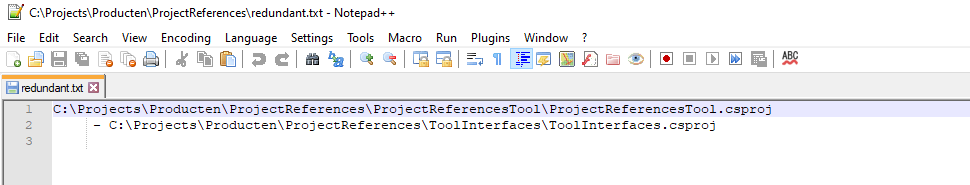
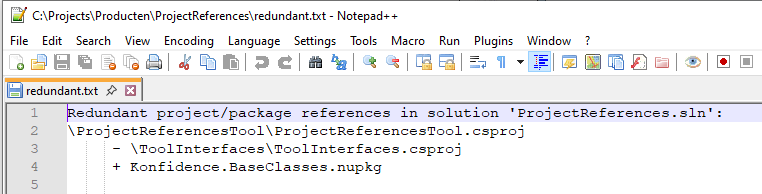
#1273: implement di for project references, step 15

Changed region(s): [[0.0, 0.0, 1.0, 1.0], [0.1509, 0.7297, 0.6037, 0.8919]]

diff --git a/ToolClasses/RedundancyReport.cs b/ToolClasses/RedundancyReport.cs
@@ -1,4 +1,5 @@
 using System.Collections.Generic;
+using System.Diagnostics.CodeAnalysis;
 using System.IO;
 using System.Linq;
 using System.Threading.Tasks;
@@ -31,6 +32,8 @@ public class RedundancyReport
 
             "No redundant project/package references found.".WriteLine();
 
+            RemoveReportFile();
+
             return;
         }
 
@@ -61,6 +64,28 @@ public class RedundancyReport
         {
             await WriteLine(reportFile, $"{Tab} + {redundantPackageReference}{PackageExtension}");
         }
+    }
+
+    [ExcludeFromCodeCoverage]
+    private static void RemoveReportFile()
+    {
+        if (!File.Exists(ReportFileName))
+        {
+            return;
+        }
+
+        try
+        {
+            File.Delete(ReportFileName);
+        }
+        catch (IOException ioException)
+        {
+            $"could not remove '{ReportFileName}' : {ioException.Message}".WriteLine();
+
+            return;
+        }
+
+        $"removed => '{ReportFileName}'".WriteLine();
     }
 
     private static void WriteMissingPackageReferences(int projectsWithoutPackageReferences)

diff --git a/ToolClasses.UnitTest/ProjectReferencesEngineTests.cs b/ToolClasses.UnitTest/ProjectReferencesEngineTests.cs
@@ -386,6 +386,25 @@ public class ProjectReferencesEngineTests
         StringAssert.StartsWith(redundant, "note :");
     }
 
+    [TestMethod]
+    public async Task Execute_WithNothingRedundantAndAReportFileFromAnEarlierRun_RemovesTheReportFile()
+    {
+        // Arrange
+        WriteProject("A", []);
+        WriteProject("B", []);
+        WriteProject("C", []);
+
+        File.WriteAllText(Path.Combine(_outputPath, RedundantFileName), "findings from an earlier run");
+
+        TestContext context = CreateContext("--BasePath", _basePath, "--AllProjects");
+
+        // Act
+        await context.ProjectReferencesEngine.Execute();
+
+        // Assert
+        AssertRedundantFileWasNotWritten();
+    }
+
     private string ReadRedundantFile()
     {
         string redundantFile = Path.Combine(_outputPath, RedundantFileName);

diff --git a/README.md b/README.md
@@ -12,7 +12,8 @@ The project references tool is a console application which scans your .cs projec
 - basic run: in a console go to your solution folder and run 'project-references'. It scans the solution named after that folder, use '--AllProjects' to scan every project below it instead.
 - result 1: console displays the redundant project/package references within the scanned projects, grouped per project. A project reference is marked with a '-' and listed by its .csproj path, a package reference with a '+' and listed by name with a .nupkg extension.
 - result 2: creates a 'redundant.txt' file, which contains the results displayed in the console.
-- restore: packages a project gets through *another package* are read from the restore output, so those are only checked for projects that have been restored. The tool says how many projects it had to skip. Everything else — project references, and packages brought by a referenced project — needs nothing but the source files.
+- result 3: when nothing is redundant, a 'redundant.txt' left by an earlier run is removed, so the file never claims findings you have already cleaned up.
+- restore: packages a project gets through *another package* are read from the restore output, so those are only checked for projects that have been restored. The tool says how many projects it had to skip, on the console and as the first line of 'redundant.txt'. Everything else — project references, and packages brought by a referenced project — needs nothing but the source files.
 - actions: manually update the references in your projects and remove the redundant ones. A redundant package reference is worth a second look first: a version pinned on purpose is a reason to keep one. Packages the other project declares with 'PrivateAssets=all' are not reported, because those do not reach you.
 - where: because it is a dotnetcore console application, it runs on both windows and linux.
 - for whom: all dotnet c# developers creating solutions containing large amounts of projects.
@@ -20,6 +21,10 @@ The project references tool is a console application which scans your .cs projec
 ### What does it do
 - Example:
  
+	The structure of this example solution
+
+	![solution structure](https://raw.githubusercontent.com/a3helmich/Konfidence.ProjectReferences/develop/readme/Architecture-view-for-ProjectReferences.png)
+
 	If this is how the references in our project looks like (take note of the highlighted references).
 
 	![Redundant projects example](https://raw.githubusercontent.com/a3helmich/Konfidence.ProjectReferences/develop/readme/redundant-projects.PNG)
